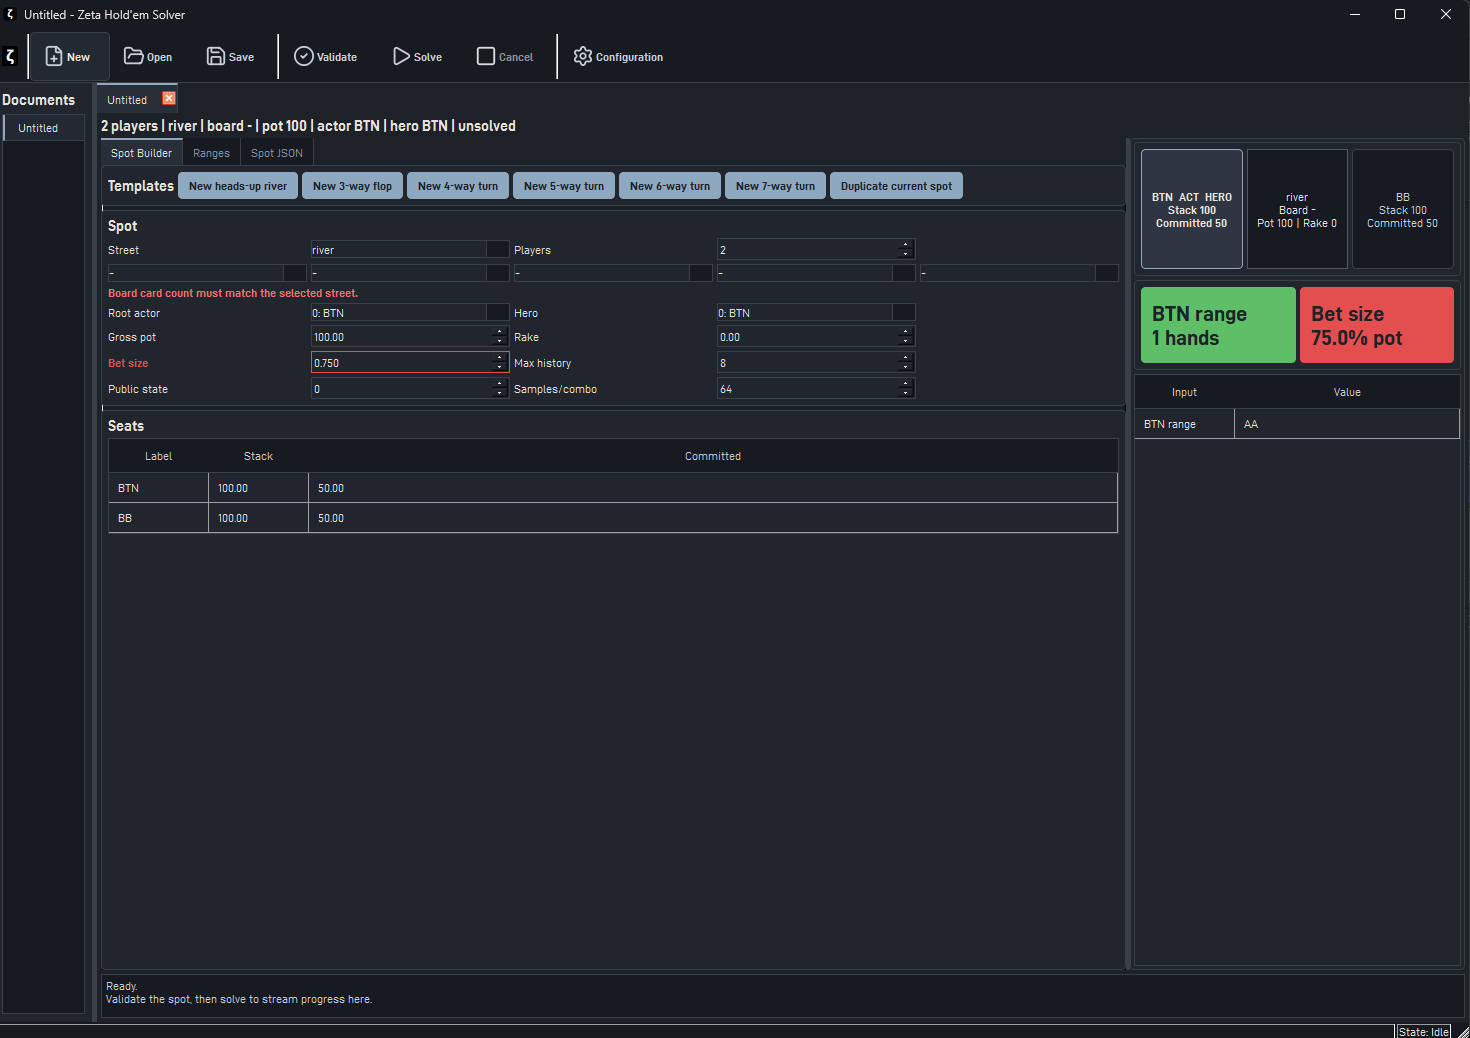
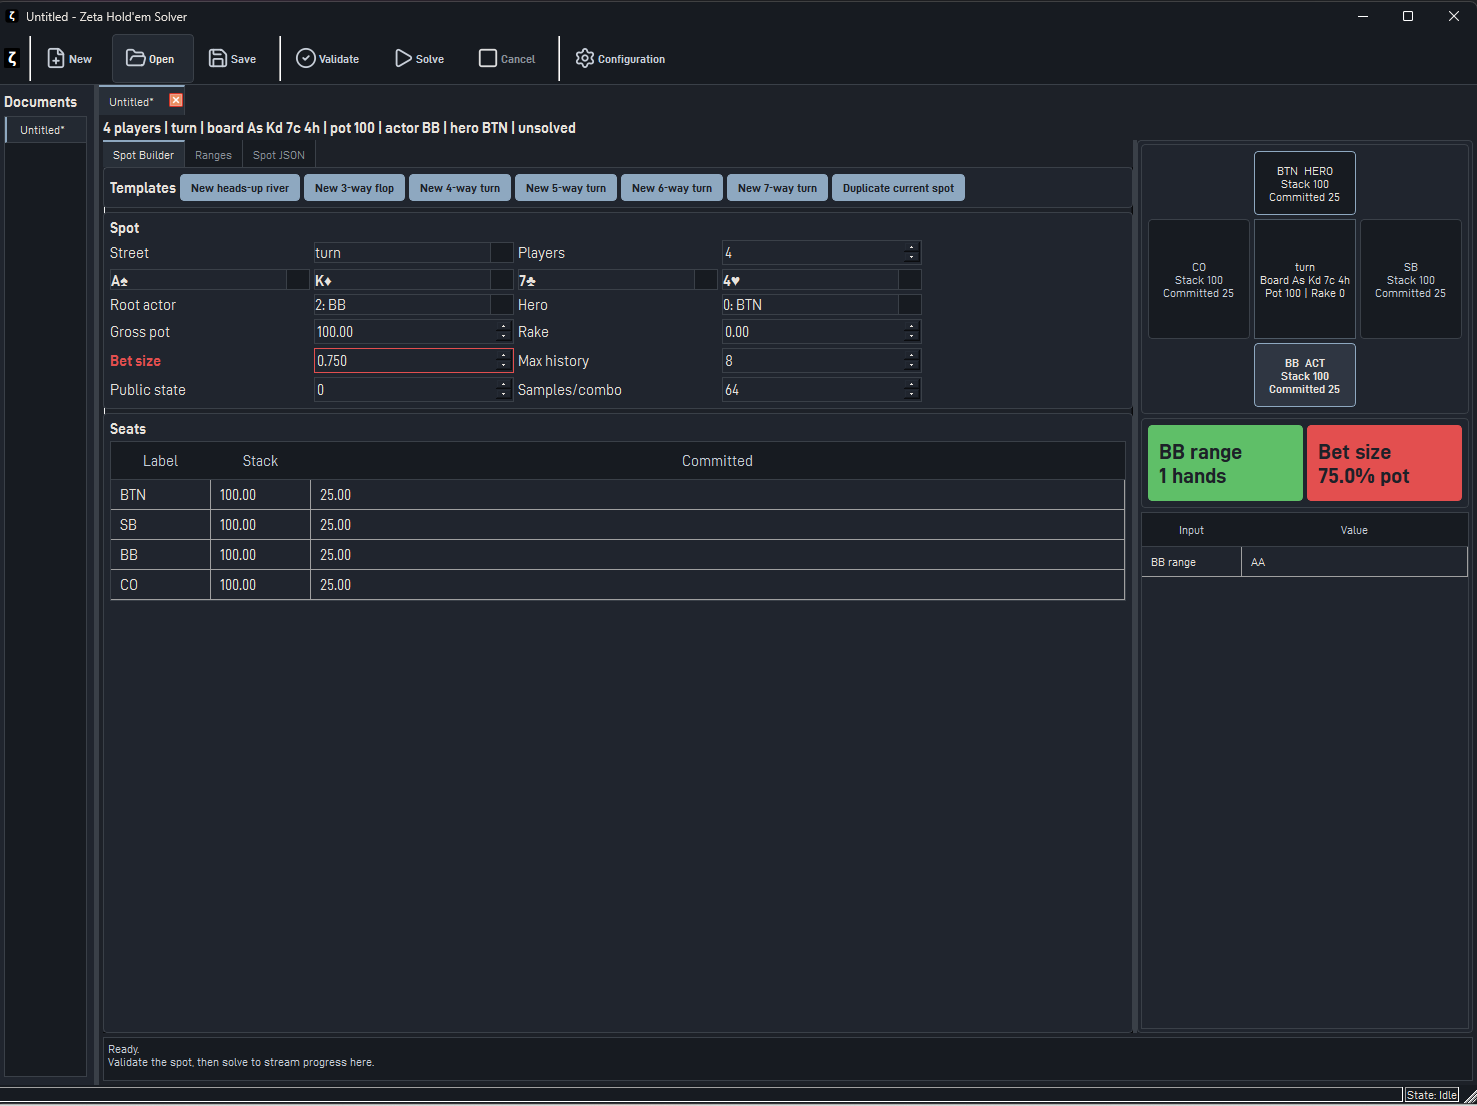
Update docs.

diff --git a/zeta/ui/holdem/src/widgets/spot_builder.cpp b/zeta/ui/holdem/src/widgets/spot_builder.cpp
@@ -11,6 +11,7 @@
 #include <QSignalBlocker>
 #include <QSizePolicy>
 #include <QSpinBox>
+#include <QStyle>
 #include <QTableWidget>
 #include <QTableWidgetItem>
 #include <QVBoxLayout>
@@ -65,6 +66,49 @@ namespace zeta::holdem::ui::widgets {
             spin->setDecimals(3);
             spin->setSingleStep(0.05);
             return spin;
+        }
+
+        [[nodiscard]] QString display_card_label(const std::string& label)
+        {
+            if (label.size() != 2u) {
+                return QString::fromStdString(label);
+            }
+
+            const auto rank = QChar::fromLatin1(label[0]);
+            switch (label[1]) {
+                case 's':
+                    return QString{rank} + QStringLiteral("♠");
+                case 'h':
+                    return QString{rank} + QStringLiteral("♥");
+                case 'd':
+                    return QString{rank} + QStringLiteral("♦");
+                case 'c':
+                    return QString{rank} + QStringLiteral("♣");
+                default:
+                    return QString::fromStdString(label);
+            }
+        }
+
+        [[nodiscard]] const char* card_suit_tone(const QString& canonical)
+        {
+            if (canonical.size() != 2) {
+                return "neutral";
+            }
+            const auto suit = canonical.at(1).toLatin1();
+            if (suit == 'h' || suit == 'd') {
+                return "red";
+            }
+            if (suit == 's' || suit == 'c') {
+                return "amber";
+            }
+            return "neutral";
+        }
+
+        void refresh_card_suit_tone(QComboBox* combo)
+        {
+            combo->setProperty("cardSuitTone", card_suit_tone(combo->currentData().toString()));
+            combo->style()->unpolish(combo);
+            combo->style()->polish(combo);
         }
 
         [[nodiscard]] QString seat_selector_text(const spot& source, const std::size_t seat)
@@ -195,13 +239,15 @@ namespace zeta::holdem::ui::widgets {
         for (int index = 0; index < 5; ++index) {
             auto* card = new QComboBox{spot_panel};
             card->setObjectName(QStringLiteral("boardCard%1").arg(index));
-            card->addItem(QStringLiteral("-"));
+            card->addItem(QStringLiteral("-"), QString{});
             for (const auto& label : viewmodels::deck_card_labels()) {
-                card->addItem(QString::fromStdString(label));
+                const auto canonical = QString::fromStdString(label);
+                card->addItem(display_card_label(label), canonical);
             }
             board_cards_.push_back(card);
             grid->addWidget(card, 2, index);
-            connect(card, &QComboBox::currentTextChanged, this, [this] {
+            connect(card, &QComboBox::currentIndexChanged, this, [this, card] {
+                refresh_card_suit_tone(card);
                 if (!updating_) {
                     spot_ = spot_from_controls();
                     refresh_validation();
@@ -369,9 +415,10 @@ namespace zeta::holdem::ui::widgets {
         for (std::size_t index = 0; index < board_cards_.size(); ++index) {
             auto* combo = board_cards_[index];
             combo->setVisible(index < expected);
-            const auto text = index < spot_.board.size() ? QString::fromStdString(spot_.board[index]) : QStringLiteral("-");
-            const int item = combo->findText(text);
+            const auto text = index < spot_.board.size() ? QString::fromStdString(spot_.board[index]) : QString{};
+            const int item = combo->findData(text);
             combo->setCurrentIndex(item >= 0 ? item : 0);
+            refresh_card_suit_tone(combo);
         }
     }
 
@@ -418,8 +465,8 @@ namespace zeta::holdem::ui::widgets {
         out.board.clear();
         const auto expected = viewmodels::board_card_count_for_street(out.street);
         for (std::size_t index = 0; index < std::min(expected, board_cards_.size()); ++index) {
-            const auto text = board_cards_[index]->currentText();
-            if (text != QStringLiteral("-")) {
+            const auto text = board_cards_[index]->currentData().toString();
+            if (!text.isEmpty()) {
                 out.board.push_back(text.toStdString());
             }
         }

diff --git a/zeta/test/src/test_holdem_ui.cpp b/zeta/test/src/test_holdem_ui.cpp
@@ -637,15 +637,25 @@ BOOST_AUTO_TEST_CASE(holdem_ui_spot_builder_reflects_validated_json_edits_in_str
     auto* player_count = builder.findChild<QSpinBox*>("playerCountSelector");
     auto* root_actor = builder.findChild<QComboBox*>("rootActorSelector");
     auto* hero_seat = builder.findChild<QComboBox*>("heroSeatSelector");
+    auto* first_board_card = builder.findChild<QComboBox*>("boardCard0");
+    auto* second_board_card = builder.findChild<QComboBox*>("boardCard1");
 
     BOOST_REQUIRE(street != nullptr);
     BOOST_REQUIRE(player_count != nullptr);
     BOOST_REQUIRE(root_actor != nullptr);
     BOOST_REQUIRE(hero_seat != nullptr);
+    BOOST_REQUIRE(first_board_card != nullptr);
+    BOOST_REQUIRE(second_board_card != nullptr);
     BOOST_CHECK_EQUAL(street->currentText().toStdString(), "turn");
     BOOST_CHECK_EQUAL(player_count->value(), 4);
     BOOST_CHECK_EQUAL(root_actor->currentIndex(), static_cast<int>(edited.root_actor));
     BOOST_CHECK_EQUAL(hero_seat->currentIndex(), static_cast<int>(edited.hero_seat));
+    BOOST_CHECK_EQUAL(first_board_card->currentText().toStdString(), "A\u2660");
+    BOOST_CHECK_EQUAL(first_board_card->currentData().toString().toStdString(), "As");
+    BOOST_CHECK_EQUAL(first_board_card->property("cardSuitTone").toString().toStdString(), "amber");
+    BOOST_CHECK_EQUAL(second_board_card->currentText().toStdString(), "K\u2666");
+    BOOST_CHECK_EQUAL(second_board_card->currentData().toString().toStdString(), "Kd");
+    BOOST_CHECK_EQUAL(second_board_card->property("cardSuitTone").toString().toStdString(), "red");
 }
 
 BOOST_AUTO_TEST_CASE(holdem_ui_spot_builder_keeps_seats_table_with_header) {

diff --git a/README.md b/README.md
@@ -44,6 +44,10 @@ implements:
 - side-pot and rake-aware terminal-state payoff distribution
 - thread-local terminal workspaces for solver traversal
 
+| Solver overview | Range editor |
+|---|---|
+| ![Zeta solver UI overview](doc/holdem/ui/images/solver-ui-overview.png) | ![Zeta solver UI ranges](doc/holdem/ui/images/solver-ui-overview-ranges.png) |
+
 #### Benchmark baseline (CFR runtime and scheduler)
 
 Latest Google Benchmark summary from `zeta-bench-holdem-cfr` on Release WSL Clang (`setarch x86_64 -R`):
